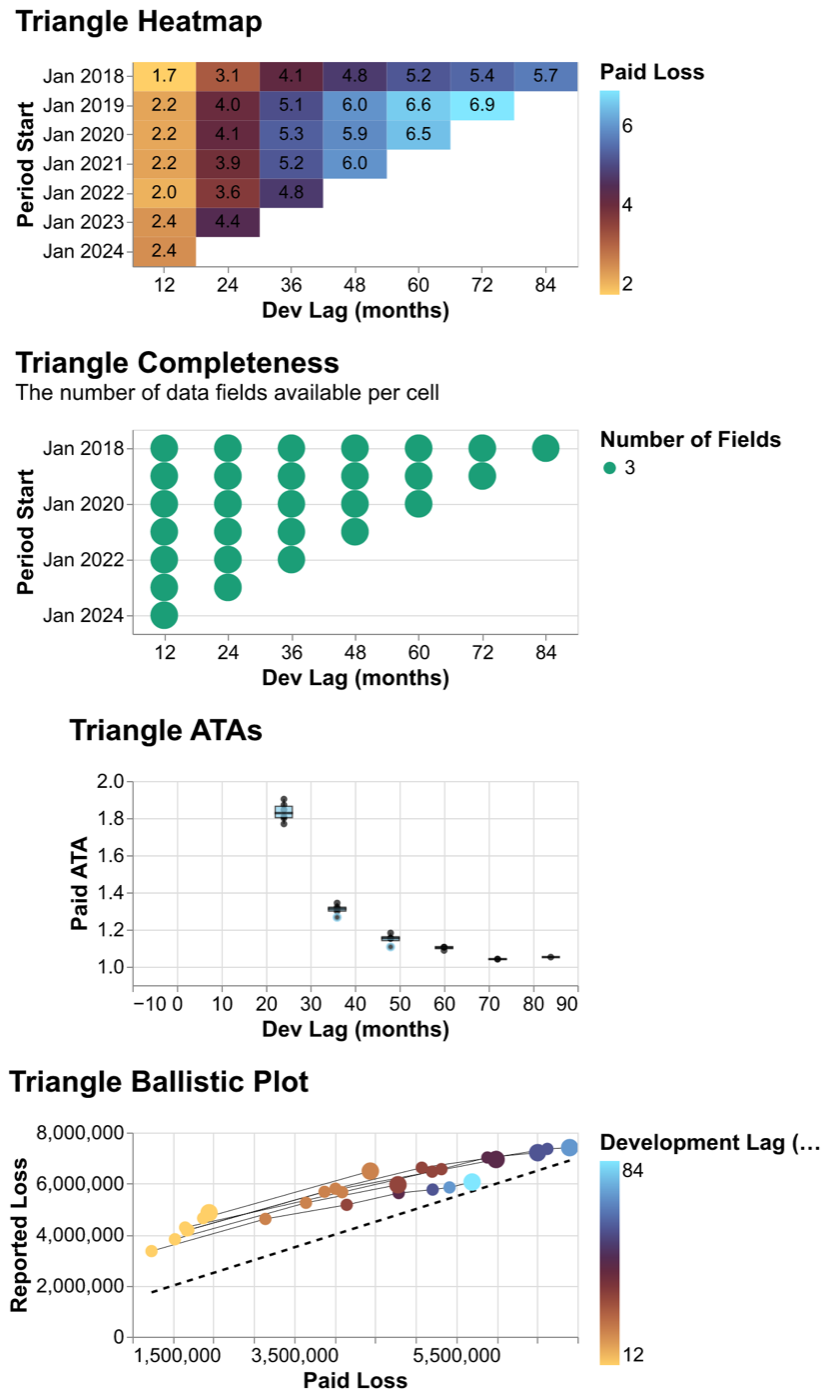
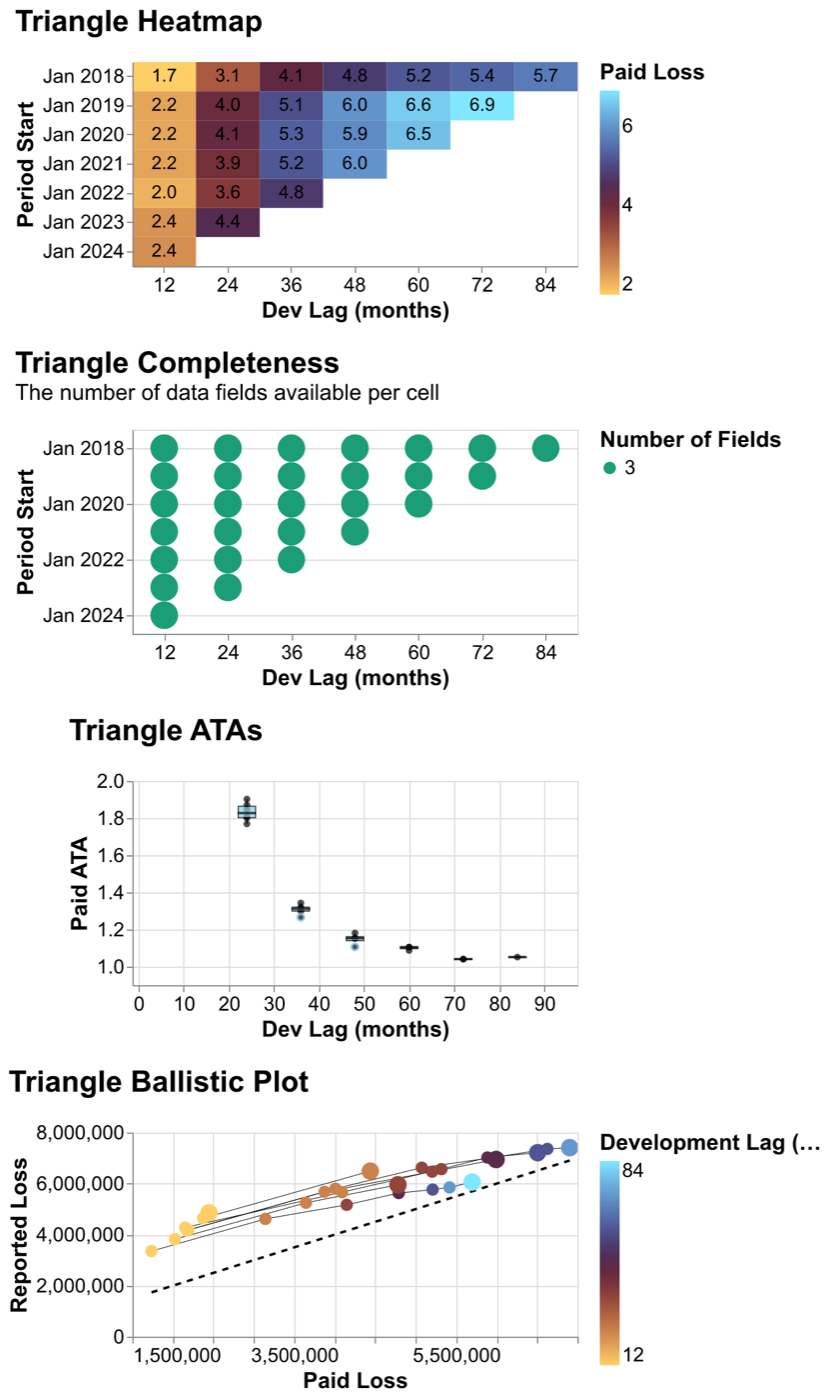
Clamp the ATA x-axis to real development lags
bermuda pads that scale by 10, which rendered a -10 tick and implied negative
development lag.

diff --git a/assets/triangle-synthetic-generator.py b/assets/triangle-synthetic-generator.py
@@ -137,6 +137,14 @@ spec = json.loads(combined.to_json())
 spec["config"] = theme["config"]
 spec["autosize"] = theme.get("autosize", "pad")
 
+# bermuda pads the ATA x scale by 10, which at this width renders a -10 tick and
+# implies negative development lag. Clamp the domain to the lags that exist.
+lags = sorted({float(lag) for lag in triangle.dev_lags()})
+for layer in spec["vconcat"][2].get("layer", []):
+    x_encoding = layer.get("encoding", {}).get("x")
+    if x_encoding and x_encoding.get("field") == "dev_lag":
+        x_encoding["scale"] = {"domain": [0, lags[-1] + 12], "nice": False}
+
 (OUT / "combined.vg.json").write_text(json.dumps(spec, indent=1))
 
 import vl_convert as vlc
